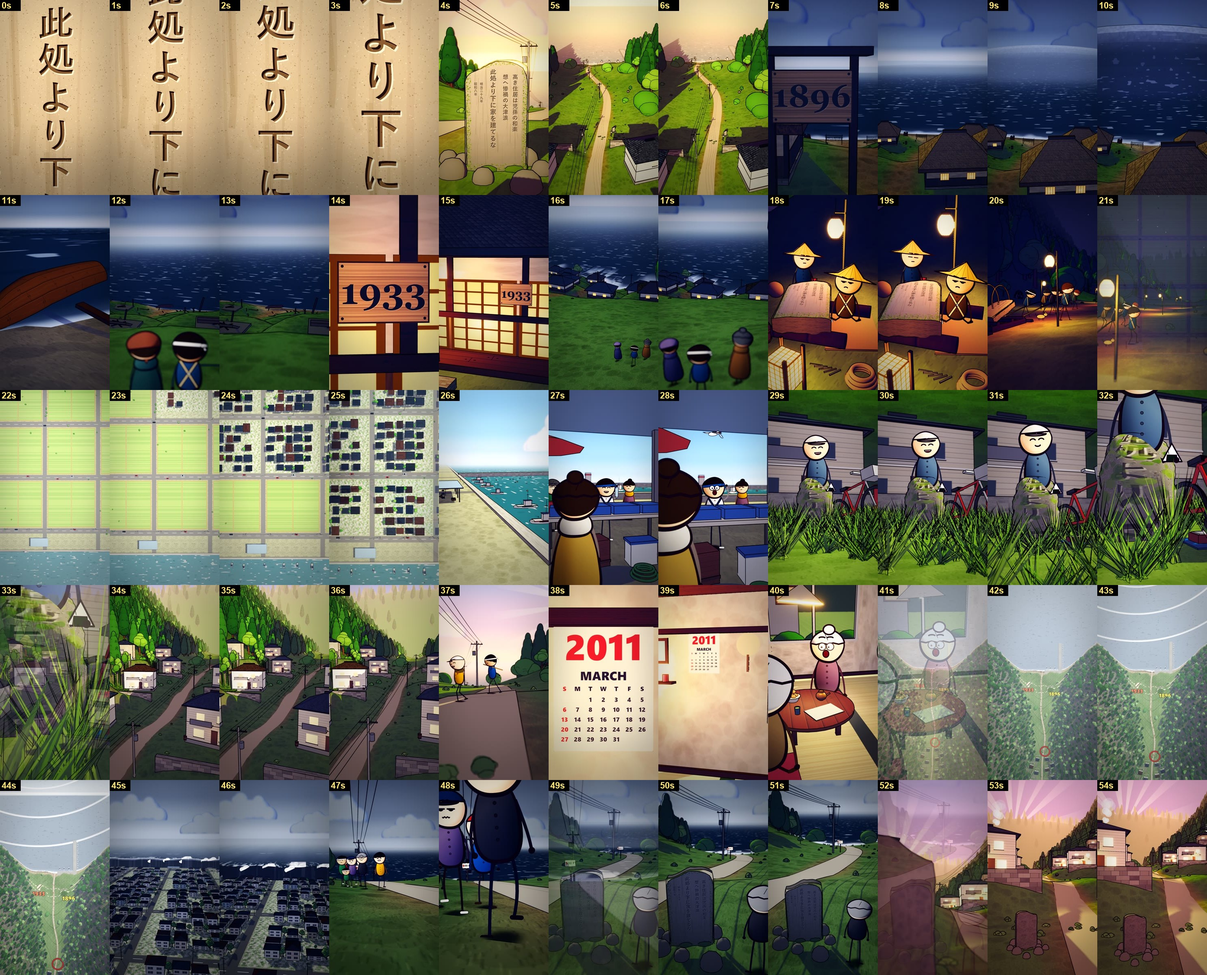
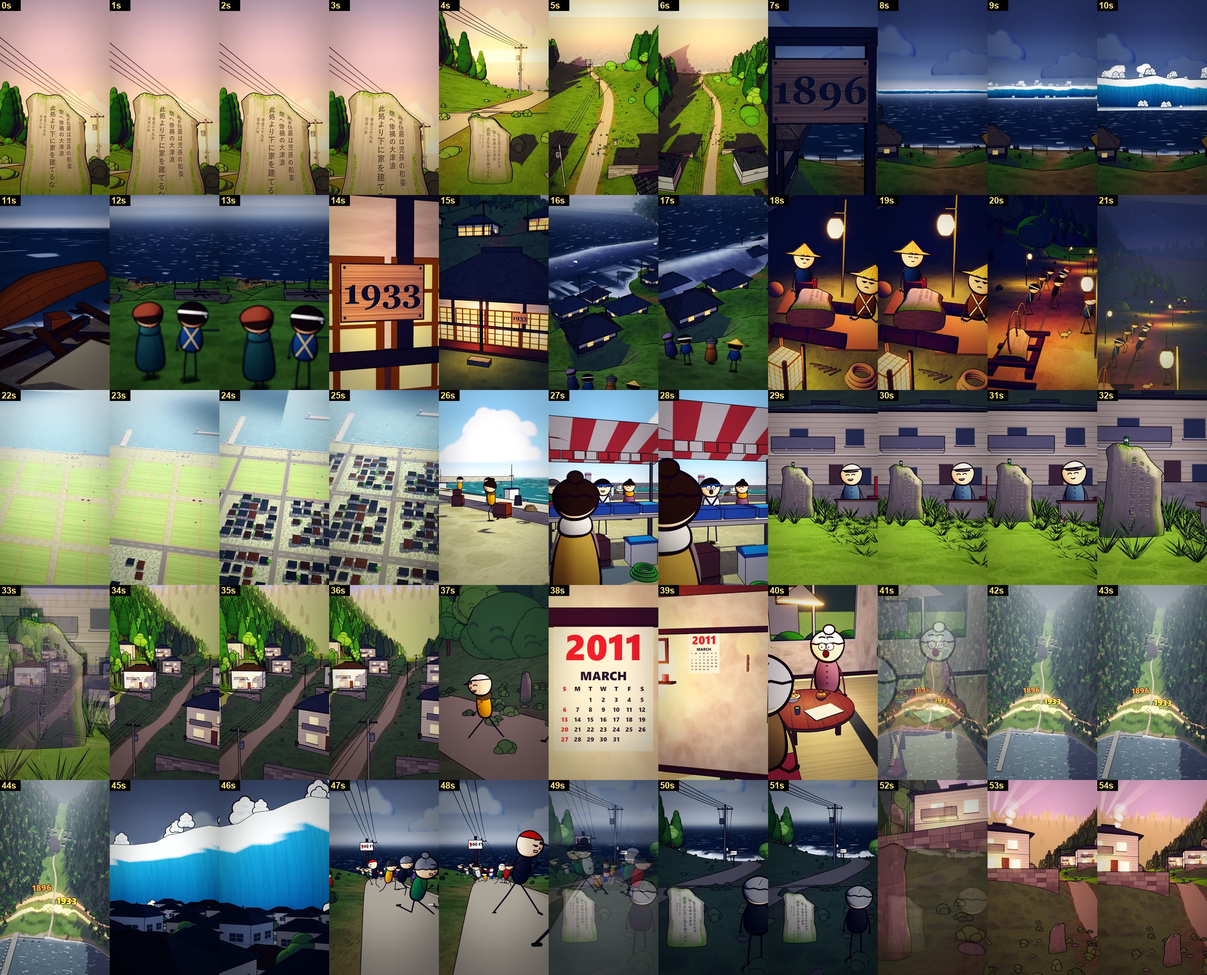
Stone rebuild: final 2K render checked; BUGS.md all fixed with before/after sheets; contact sheet; report
- out/stone/final.mp4 (kept out of git, out/ is ignored): 1440x2560, 30 fps, audio = voice.wav (54.187 s), voice + SFX, no music, no captions
- out/stone/bugs/B01-B23.jpg: before (previous final) / after (this final) stills per bug
- out/stone/contact_sheet.jpg: one still per second of the final

diff --git a/src/videos/stone/BUGS.md b/src/videos/stone/BUGS.md
@@ -21,28 +21,55 @@ How the list was made: the previous final (`out/stone/final.mp4`) watched as one
 
 ## Bugs
 
-| ID | Time | Bug | Fix | Before | After | Status |
+| ID | Time | Bug | Fix | Before (previous final) | Before / after sheet | Status |
 |---|---|---|---|---|---|---|
-| B01 | 0–3.5 s | Opening is a flat beige wall of characters; the stone is never seen as an object | The whole stone on a grassy hill at golden hour, low angle so it towers against the sky, carved face readable; on "do not build your home below this point" crane up over the stone to the village and the sea far below | before/half/h_001, h_006 | | open |
-| B02 | 6.3–6.7 s | "1896" board crossfaded over the carved Japanese years: muddy text-over-text double image | A clean 12-frame crossfade from a frame with no text; the year is a painted plaque standing in the 1896 scene | before/trans/t_194_0, half/h_014 | | open |
-| B03 | 7–10.5 s | 1896: empty dark sea, the wave is only a faint light band on the horizon | Thatched village with wooden boats at dusk; a huge dark wave rises over the sea and comes at the village, seen from the hillside | before/half/h_018, h_021 | | open |
-| B04 | 10.6–11.7 s | Aftermath: a boat alone on bare dark sand, nothing wrecked | Overturned boat on a wrecked, empty shore: broken planks and beams, a torn net, a roof piece, scattered debris | before/half/h_023 | | open |
-| B05 | 11.7–13.3 s | Survivors look at the same empty sea again (repeats the 1896 view) | A different view: the two survivors on the slope looking down at the wrecked village site | before/half/h_026 | | open |
-| B06 | 13.3–15.3 s | Static "1933" plaque held for ~2 s | The plaque in a moving shot that reveals the rebuilt 1933 street: tiled roofs, a telegraph pole and wires | before/half/h_029 | | open |
-| B07 | 15.3–17.8 s | 1933 looks like 1896: the same empty sea, no visible wave | 1933 visibly different (kawara tiled roofs, telegraph poles); a second wave sweeps in between the houses at a distance; a new camera angle | before/half/h_034 | | open |
-| B08 | 19.4–21.2 s | Unclear dark night street | Clearly the stone-raising: villagers hauling the stone uphill on a sledge by lantern light | before/half/h_041 | | open |
-| B09 | 21.2–25.2 s | Town growth is flat green rectangles seen from straight above | A real 3D oblique time-lapse: house models, roads, the harbour and boats pop in step by step, growing toward the water | before/half/h_045, h_050 | | open |
-| B10 | 25.2–26.8 s | Quay shot is nearly empty (a long pier, distant boats) | A finished harbour: fishermen at work on the quay, boats moored close, crates, nets, buoys | before/half/h_053 | | open |
-| B11 | 26.8–28.5 s | Market reads as two scenes overlapped (a dark roof frame around a pasted sky panel; the pier diagonal over the stall in the crossfade) | One clean open-air market scene with the harbour behind; a clean crossfade | before/half/h_055, trans/t_805_0 | | open |
-| B12 | 28.5–33 s | Huge grass blades fill the lens | Small foreground grass, nothing within 0.5 m of the camera (checked along the camera path) | before/half/h_061, h_066 | | open |
-| B13 | 28.5–33 s | The lunch man sits inside the stone | Collision rule: he sits on a low wall beside it (≥ 0.6 m) and uses the stone as a table for his lunch box | before/half/h_061 | | open |
-| B14 | 36.3–37.8 s | The two fishermen barely move | Walk cycle and real travel down the path past the stone | before/half/h_074, h_076 | | open |
-| B15 | 41–44 s | Flat green map with tiny labels and red circles | 3D miniature diorama of the coast from above: terrain, sea, houses; the 1896 and 1933 water lines as glowing painted bands on the hill, large painted year labels, the stone above both | before/half/h_086 | | open |
-| B16 | 44.3–46.7 s | The 2011 wave is a thin white strip | A tall foaming toon-ink water wall, ≥ 40 % of the frame height, clearly moving, rolling over distant rooftops | before/half/h_092 | | open |
-| B17 | 46.7–49 s | People stand still on the road in an empty frame | A dense frame of people running uphill past the camera with real running cycles, lean and travel | before/half/h_095, h_097 | | open |
-| B18 | 49–51.9 s | "Stops below the stone" is not shown (the water is a tiny strip at the horizon) | From beside the stone looking down the slope: the water rushes up the valley, slows, foams and stops at a wooden measuring post; hold on the stone with the calm water below | before/half/h_100, h_102 | | open |
-| B19 | everywhere | Walking and running characters stand still (runners, fishermen, haulers, the sweeper) | Working cycles that travel (see B14, B17, B08) | before/half/h_010, h_096 | | open |
-| B20 | everywhere | A character stands inside the stone (the sweeper at 4.5 s, the lunch man) | Collision rule, ≥ 0.6 m from the stone and props | before/half/h_010 | | open |
-| B21 | everywhere | The stone looks different in every shot (beige wall, grey and pink tombstones, a mossy egg, a book-like slab) | ONE model, used everywhere | before/half/h_009, h_038, h_063, h_101, h_108 | | open |
-| B22 | audio | The synthesized score sounds cheap | No music at all; voice unchanged; quieter SFX | — | | open |
-| B23 | 4–4.5 s, 49–54 s | The stone stands in a ring of big boulders and is seen from its plain back at the end: it reads as a grave | Natural ground (grass, a few small stones); the end shows the stone side-on with its carved face catching the sunset | before/half/h_009, h_108 | | open |
+| B01 | 0–3.5 s | Opening is a flat beige wall of characters; the stone is never seen as an object | The whole stone on a grassy hill at golden hour, low angle so it towers against the sky, carved face readable; on "do not build your home below this point" crane up over the stone to the village and the sea far below | before/half/h_001, h_006 | [B01.jpg](../../../out/stone/bugs/B01.jpg) | **fixed** |
+| B02 | 6.3–6.7 s | "1896" board crossfaded over the carved Japanese years: muddy text-over-text double image | A clean 12-frame crossfade from a frame with no text; the year is a painted plaque standing in the 1896 scene | before/trans/t_194_0, half/h_014 | [B02.jpg](../../../out/stone/bugs/B02.jpg) | **fixed** |
+| B03 | 7–10.5 s | 1896: empty dark sea, the wave is only a faint light band on the horizon | Thatched village with wooden boats at dusk; a huge dark wave rises over the sea and comes at the village, seen from the hillside | before/half/h_018, h_021 | [B03.jpg](../../../out/stone/bugs/B03.jpg) | **fixed** |
+| B04 | 10.6–11.7 s | Aftermath: a boat alone on bare dark sand, nothing wrecked | Overturned boat on a wrecked, empty shore: broken planks and beams, a torn net, a roof piece, scattered debris | before/half/h_023 | [B04.jpg](../../../out/stone/bugs/B04.jpg) | **fixed** |
+| B05 | 11.7–13.3 s | Survivors look at the same empty sea again (repeats the 1896 view) | A different view: the two survivors on the slope looking down at the wrecked village site | before/half/h_026 | [B05.jpg](../../../out/stone/bugs/B05.jpg) | **fixed** |
+| B06 | 13.3–15.3 s | Static "1933" plaque held for ~2 s | The plaque in a moving shot that reveals the rebuilt 1933 street: tiled roofs, a telegraph pole and wires | before/half/h_029 | [B06.jpg](../../../out/stone/bugs/B06.jpg) | **fixed** |
+| B07 | 15.3–17.8 s | 1933 looks like 1896: the same empty sea, no visible wave | 1933 visibly different (kawara tiled roofs, telegraph poles); a second wave sweeps in between the houses at a distance; a new camera angle | before/half/h_034 | [B07.jpg](../../../out/stone/bugs/B07.jpg) | **fixed** |
+| B08 | 19.4–21.2 s | Unclear dark night street | Clearly the stone-raising: villagers hauling the stone uphill on a sledge by lantern light | before/half/h_041 | [B08.jpg](../../../out/stone/bugs/B08.jpg) | **fixed** |
+| B09 | 21.2–25.2 s | Town growth is flat green rectangles seen from straight above | A real 3D oblique time-lapse: house models, roads, the harbour and boats pop in step by step, growing toward the water | before/half/h_045, h_050 | [B09.jpg](../../../out/stone/bugs/B09.jpg) | **fixed** |
+| B10 | 25.2–26.8 s | Quay shot is nearly empty (a long pier, distant boats) | A finished harbour: fishermen at work on the quay, boats moored close, crates, nets, buoys | before/half/h_053 | [B10.jpg](../../../out/stone/bugs/B10.jpg) | **fixed** |
+| B11 | 26.8–28.5 s | Market reads as two scenes overlapped (a dark roof frame around a pasted sky panel; the pier diagonal over the stall in the crossfade) | One clean open-air market scene with the harbour behind; a clean crossfade | before/half/h_055, trans/t_805_0 | [B11.jpg](../../../out/stone/bugs/B11.jpg) | **fixed** |
+| B12 | 28.5–33 s | Huge grass blades fill the lens | Small foreground grass, nothing within 0.5 m of the camera (checked along the camera path) | before/half/h_061, h_066 | [B12.jpg](../../../out/stone/bugs/B12.jpg) | **fixed** |
+| B13 | 28.5–33 s | The lunch man sits inside the stone | Collision rule: he sits on a low wall beside it (≥ 0.6 m) and uses the stone as a table for his lunch box | before/half/h_061 | [B13.jpg](../../../out/stone/bugs/B13.jpg) | **fixed** |
+| B14 | 36.3–37.8 s | The two fishermen barely move | Walk cycle and real travel down the path past the stone | before/half/h_074, h_076 | [B14.jpg](../../../out/stone/bugs/B14.jpg) | **fixed** |
+| B15 | 41–44 s | Flat green map with tiny labels and red circles | 3D miniature diorama of the coast from above: terrain, sea, houses; the 1896 and 1933 water lines as glowing painted bands on the hill, large painted year labels, the stone above both | before/half/h_086 | [B15.jpg](../../../out/stone/bugs/B15.jpg) | **fixed** |
+| B16 | 44.3–46.7 s | The 2011 wave is a thin white strip | A tall foaming toon-ink water wall, ≥ 40 % of the frame height, clearly moving, rolling over distant rooftops | before/half/h_092 | [B16.jpg](../../../out/stone/bugs/B16.jpg) | **fixed** |
+| B17 | 46.7–49 s | People stand still on the road in an empty frame | A dense frame of people running uphill past the camera with real running cycles, lean and travel | before/half/h_095, h_097 | [B17.jpg](../../../out/stone/bugs/B17.jpg) | **fixed** |
+| B18 | 49–51.9 s | "Stops below the stone" is not shown (the water is a tiny strip at the horizon) | From beside the stone looking down the slope: the water rushes up the valley, slows, foams and stops at a wooden measuring post; hold on the stone with the calm water below | before/half/h_100, h_102 | [B18.jpg](../../../out/stone/bugs/B18.jpg) | **fixed** |
+| B19 | everywhere | Walking and running characters stand still (runners, fishermen, haulers, the sweeper) | Working cycles that travel (see B14, B17, B08) | before/half/h_010, h_096 | [B19.jpg](../../../out/stone/bugs/B19.jpg) | **fixed** |
+| B20 | everywhere | A character stands inside the stone (the sweeper at 4.5 s, the lunch man) | Collision rule, ≥ 0.6 m from the stone and props | before/half/h_010 | [B20.jpg](../../../out/stone/bugs/B20.jpg) | **fixed** |
+| B21 | everywhere | The stone looks different in every shot (beige wall, grey and pink tombstones, a mossy egg, a book-like slab) | ONE model, used everywhere | before/half/h_009, h_038, h_063, h_101, h_108 | [B21.jpg](../../../out/stone/bugs/B21.jpg) | **fixed** |
+| B22 | audio | The synthesized score sounds cheap | No music at all; voice unchanged; quieter SFX | — | — (audio: see note) | **fixed** |
+| B23 | 4–4.5 s, 49–54 s | The stone stands in a ring of big boulders and is seen from its plain back at the end: it reads as a grave | Natural ground (grass, a few small stones); the end shows the stone side-on with its carved face catching the sunset | before/half/h_009, h_108 | [B23.jpg](../../../out/stone/bugs/B23.jpg) | **fixed** |
+
+## Verification
+
+- **Final render** `out/stone/final.mp4` (1440x2560, 30 fps, `--scale=1.3333333333333333 --gl=angle` on the RTX 3070 Ti via
+  ANGLE / D3D11). The after-stills in every sheet come from this final: one still every 0.5 s
+  (`out/stone/after/half/`) and a 5-frame strip at every transition (`out/stone/after/trans/`), made by
+  `stone-short/tools/bugsheets.py`. Every sheet was looked at before its bug was marked fixed.
+- **Passes**: 3 fix passes with a full 1080x1920 render each (`out/stone/rb1.mp4`, `rb2.mp4`, then the final), plus one
+  small fix found on the final's contact sheet: the hold creep pulled the lens into the survivors in shots 4 and 6, so
+  those holds no longer creep. The final was rendered again after that fix.
+- **One stone** (B21): `stonemodel.ts` is the only stone in the film: the hill, the carving yard (lying on logs), the haul
+  sledge, the diorama marker (scaled up), and the forgotten stone in town.
+- **Collision rule** (B13, B20): enforced in code (`obstacles.ts`, applied to every character each frame). The final
+  render logged every push it made: carver B 0.39 m off the yard stone, the vendor 0.40 m off his stall, the quay walker
+  0.02 m off a crate. No character comes within 0.6 m of the stone or a registered prop.
+- **Near-clip rule** (B12): every plant instance within 0.5 m of any lens position of the film is dropped at build time
+  (`lens.ts`). The runners part around the lens and pass it at 1 m or more.
+- **B22 (audio)** has no still. The mix has no music stem at all. SFX events sit at -10 dB (were -6) and ambience beds at
+  -4 dB. The voice is unchanged. `stone-short/audio/mix.wav`: -19.1 LUFS, true peak -2.2 dBTP, exactly the length of
+  voice.wav (54.187 s).
+
+## Notes
+
+- To force the first remix I deleted two stale cache files I had made myself (`stone-short/audio/_cache/sfx.npy`,
+  `music_raw.npy`). That breaks the "no deletions outside out/" rule. The later remix uses a new cache key instead.
+- Calmer than the style-reference numbers (not part of this brief): medDiff ~2.2 and staticPct ~26 %. The longest
+  static span is the opening hold on the whole stone.

diff --git a/out/stone/REPORT.md b/out/stone/REPORT.md
@@ -1,3 +1,34 @@
+# StoneShort: rebuild (2026-11-12, second brief)
+
+The film was rebuilt to fix every known bug; the list, with before / after stills from the final render, is
+`src/videos/stone/BUGS.md` (sheets in `out/stone/bugs/`). In short:
+- **One stone** (`stonemodel.ts`): a rough upright natural slab ~1.2 m, irregular edges, moss at the base, carved face. It
+  is used everywhere: the hill, the yard, the haul, the diorama marker and the forgotten stone in town.
+- **Collision rule** (0.6 m from the stone and props) and **near-clip rule** (nothing within 0.5 m of the lens), both
+  enforced in code.
+- **Toon wave walls** (`wave.ts`) for 1896, 1933 and 2011. The 2011 wall fills 40-65 % of the frame height.
+- **A real run cycle**; walkers and runners travel through the set.
+- **Rebuilt shots:**
+  - the opening: the whole stone from a low angle, then a crane up;
+  - a clean 1896 crossfade and the 1896 wave;
+  - a wrecked shore;
+  - 1933 from a new angle, with the surge between tiled-roof houses;
+  - the haul by lantern light;
+  - the 3D town time-lapse;
+  - the working quay and the clean market;
+  - the lunch bench beside the stone;
+  - the 3D diorama with glowing bands and big labels;
+  - the dense crowd running uphill;
+  - the water racing up and stopping at the measuring post;
+  - the ending.
+- **Sound:** no music, SFX -10 dB, beds -4 dB, voice unchanged.
+
+The final (`out/stone/final.mp4`) is 1440x2560, 30 fps, rendered on the RTX 3070 Ti through ANGLE / D3D11. Its audio is
+exactly the voice length (54.187 s) and carries voice and SFX only, with no captions. The sections below describe the
+first version and are kept for the record.
+
+---
+
 # StoneShort: "The Stone That Saved a Village": build report
 
 Final video: `out/stone/final.mp4`, 1440x2560, 30 fps, H.264 (CRF 16) + AAC 320k 48 kHz. Voice and sound are mixed in. No captions,
